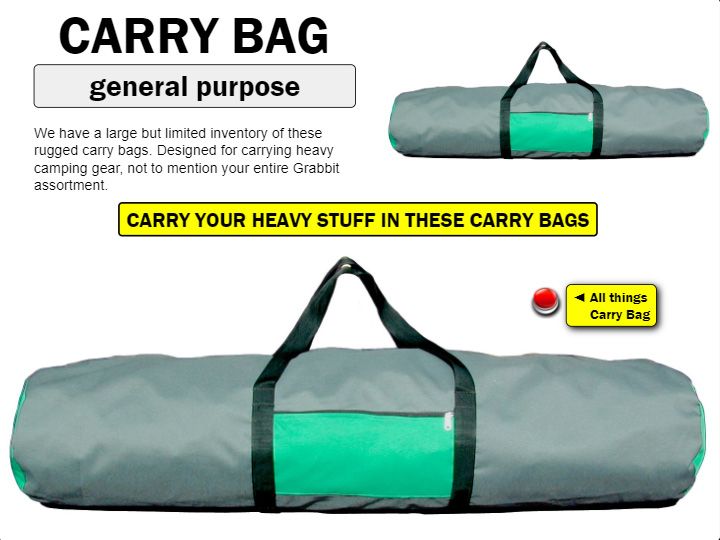
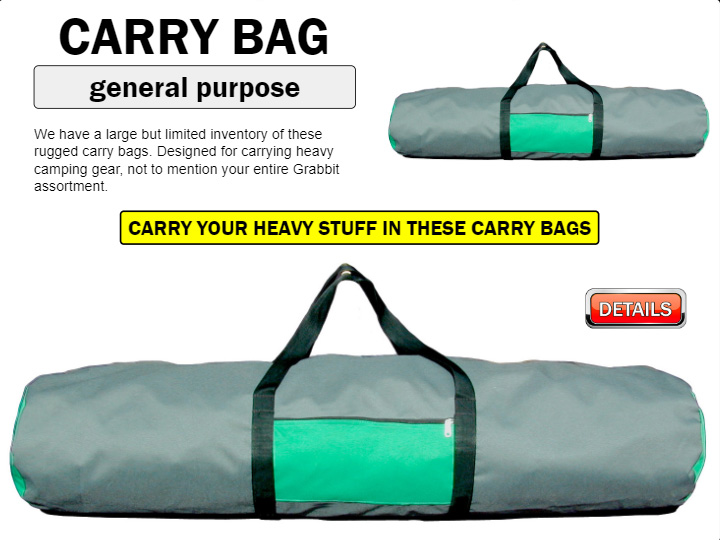
User content add/edit for component 7 - which is the carry bag at this juncture

diff --git a/components/components04_07/tmpl_07/viewTmpl_07.html b/components/components04_07/tmpl_07/viewTmpl_07.html
@@ -22,14 +22,15 @@ font-family: 'Franklin Gothic Medium', 'Franklin Gothic', 'ITC Franklin Gothic',
 
 </style>
 
+<!-- AR Response Section 1 ************************************************************************************************************************************************-->
 <div style="text-align:center;">    
    
     <table style="width:100%">
         <tr>
-            <td style="{{$ctrl.width1}}; vertical-align:top;">
+            <td style="{{$ctrl.rs1width1}}; vertical-align:top;">
                 <div    class="fontFam"
                         style=" width:100%;
-                                {{$ctrl.fontsize3}};
+                                {{$ctrl.rs1fontsize3}};
                                 ">
                     <span style="font-size:1.75em">CARRY BAG</span><br>
                     <div style="position:relative; 
@@ -45,7 +46,7 @@ font-family: 'Franklin Gothic Medium', 'Franklin Gothic', 'ITC Franklin Gothic',
                 </div>    
                 <div    id="div1" 
                         style="font-family: 'Arial Rounded MT Bold', 'Helvetica Rounded', Arial, sans-serif; 
-                               {{$ctrl.fontsize1}}; 
+                               {{$ctrl.rs1fontsize1}}; 
                                /*font-size:.75em;*/
                                color:black; 
                                /*line-height:.95em;*/
@@ -61,23 +62,26 @@ font-family: 'Franklin Gothic Medium', 'Franklin Gothic', 'ITC Franklin Gothic',
 
                 </div>
             </td>
-            <td style="{{$ctrl.width2}};">
+            <td style="{{$ctrl.rs1width2}};">
                 <img    src="components/components04_07/tmpl_07/ttd-vn-cb-presentation1-1450x550.jpg" 
                         alt="Carry Bag" 
                         title="Carry Bag" 
                         style=" width:100%; 
-                                {{$ctrl.margintop1}};"> 
+                                {{$ctrl.rs1margintop1}};"> 
             </td>
         </tr>
     </table>
    
-<!--************************************************************************************************************************************************--> 
+<!-- AR Response Section 2 ************************************************************************************************************************************************-->
     <div id="div2" 
          style="font-family: 'Franklin Gothic Medium', 'Franklin Gothic', 'ITC Franklin Gothic', Arial, sans-serif; 
-                {{$ctrl.fontsize2}};
+                {{$ctrl.rs2fontsize2}};
                 /*font-size:.75em;*/
                 display:inline-block;
-                margin-top:7px;
+                {{$ctrl.rs2margintop1}};     /* AR_20_8 */
+                /*margin-top:8px;  */
+                {{$ctrl.rs2marginbottom1}};     /* AR_20_8 */
+                /*margin-bottom:8px;     */
                 color:black;
                 background-color:yellow;
                 padding:5px 8px;
@@ -86,55 +90,22 @@ font-family: 'Franklin Gothic Medium', 'Franklin Gothic', 'ITC Franklin Gothic',
                 ">
         CARRY YOUR HEAVY STUFF IN THESE CARRY BAGS
     </div>
-<!--************************************************************************************************************************************************-->
-    <br><br>
+    
+    
+<!-- AR Response Section 3 ************************************************************************************************************************************************-->
     <div style="position:relative;">
         
-        <table style="  position:absolute; 
-                        {{$ctrl.positiontop1}}; 
+        <div style="  position:absolute; 
+                        {{$ctrl.rs3positiontop1}}; 
                         /*top:10px; */
-                        {{$ctrl.positionleft1}}; 
+                        {{$ctrl.rs3positionleft1}}; 
                         /*left:80%; */
                         z-index:2;">
-            <tr>
-                <td style="text-align:right; vertical-align:top;">
                     <a href="https://www.tarptiedown.com"> 
-                        <img src="https:/tarptiedown.com/resources/ttd-vn-button2-600x600.png" alt="button" style="{{$ctrl.width3}};">
+                        <img src="https:/tarptiedown.com/resources/ttd-vn-button3-300x120.png" alt="button" style="{{$ctrl.rs3width3}};">
                     </a>
-                </td>
-                <td class="fontFam"
-                    style=" vertical-align:middle; 
-                            text-align:left; 
-                            ">
-                    <div style="background-color:yellow;
-                                border:1px solid black;
-                                padding:5px 7px; 
-                                {{$ctrl.fontsize4}}; 
-                                /*font-size:.75em;*/
-                                border-radius:7px;
-                                margin-bottom:0px;
-                                box-shadow:3px 3px 13px black;
-                                z-index:2;">
-                        &#9668; All things<br>&nbsp;&nbsp;&nbsp;&nbsp;&nbsp;Carry Bag
-                    </div>
-                </td>
-            </tr>
-        </table>
-        <!-- 
-        <div id="div4" 
-             class="textStyle1" 
-             style="position:absolute; 
-                    {{$ctrl.positiontop2}}; 
-                    /*top:150px;*/
-                    left:5%; 
-                    {{$ctrl.fontsize5}}; 
-                    /*font-size:1.0em;*/
-                    text-align:left; 
-                    z-index:2;">
-            Bags of:<br>Fertilizer, Potting Soil, Pet Food,<br>Bird Seed, Ice Melt, and More!
         </div>
-        -->
-        
+       
         <img    src="components/components04_07/tmpl_07/ttd-vn-cb-presentation1-1450x550.jpg" 
                 alt="Keeper Application" 
                 title="Keeper Application" 

diff --git a/components/components04_07/components04_07.js b/components/components04_07/components04_07.js
@@ -101,26 +101,22 @@ angular.module('viewNav')
 
             var self07 = this; 
             
-            self07.width1 = "width:" + ((-0.01235)*(viewWidth)+64.44444) + "%";
-            self07.width2 = "width:" + ((0.01235)*(viewWidth)+35.55556) + "%";
-            self07.width3 = "width:" + ((0.02963)*(viewWidth)+15.33333) + "px";
-             
-            self07.margintop1 = "margin-top:" + ((0.01235)*(viewWidth)-4.44444) + "px";
-            self07.margintop2 = "margin-top:" + ((0.01235)*(viewWidth)+0.55556) + "px";
+            // AR Response Section 1
+            self07.rs1width1 = "width:" + ((-0.01235)*(viewWidth)+64.44444) + "%";
+            self07.rs1fontsize3 = "font-size:" + ((0.00272)*(viewWidth)-0.17778) + "em";
+            self07.rs1fontsize1 = "font-size:" + ((0.00062)*(viewWidth)+0.52778) + "em";
+            self07.rs1width2 = "width:" + ((0.01235)*(viewWidth)+35.55556) + "%";
+            self07.rs1margintop1 = "margin-top:" + ((0.01235)*(viewWidth)-4.44444) + "px";
             
-            self07.positiontop1 = "top:" + ((0.04938)*(viewWidth)-7.77778) + "px";
-            self07.positiontop2 = "top:" + ((0.43210)*(viewWidth)-5.55556) + "px";          //div4
-
-            self07.fontsize1 = "font-size:" + ((0.00062)*(viewWidth)+0.52778) + "em";
-            self07.fontsize2 = "font-size:" + ((0.00154)*(viewWidth)+0.19444) + "em";
-            self07.fontsize3 = "font-size:" + ((0.00272)*(viewWidth)-0.17778) + "em";
+            // AR Response Section 2
+            self07.rs2fontsize2 = "font-size:" + ((0.00154)*(viewWidth)+0.19444) + "em";
+            self07.rs2margintop1 = "margin-top:" + ((0.01481)*(viewWidth)+2.66667) + "px";
+            self07.rs2marginbottom1 = "margin-bottom:" + ((0.01481)*(viewWidth)+2.66667) + "px";
             
-            
-            self07.fontsize4 = "font-size:" + ((0.00068)*(viewWidth)+0.45556) + "em";
-            self07.fontsize5 = "font-size:" + ((0.00370)*(viewWidth)-0.33333) + "em";
-            
-            self07.positionleft1 = "left:" + ((0.02469)*(viewWidth)+51.11111)    + "%";    
-                
+            // AR Response Section 3
+            self07.rs3positiontop1 = "top:" + ((0.04938)*(viewWidth)-7.77778) + "px";
+            self07.rs3positionleft1 = "left:" + ((0.01235)*(viewWidth)+70.55556)    + "%";  // AR_85_75        
+            self07.rs3width3 = "width:" + ((0.09877)*(viewWidth)+34.44444) + "px";          // AR_150_70
             
             compFactory.logView(07);
         }]

diff --git a/controller-client.js b/controller-client.js
@@ -206,7 +206,7 @@ angular.module('viewNav')
 
 //***********************************************************************************************************************************************************            
 // $state.go('some-view') loads the desired view as the default view upon load          
-        $state.go('view06');
+        $state.go('view07');
         
 //***********************************************************************************************************************************************************    
 //  Responsive section for the Hyper Menu and Thumbnail section     
